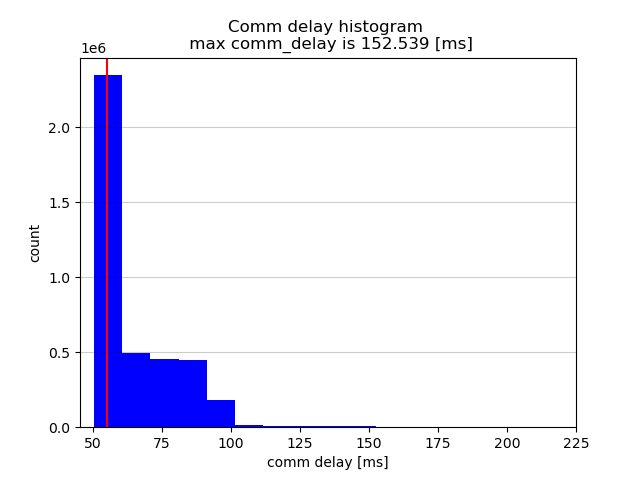
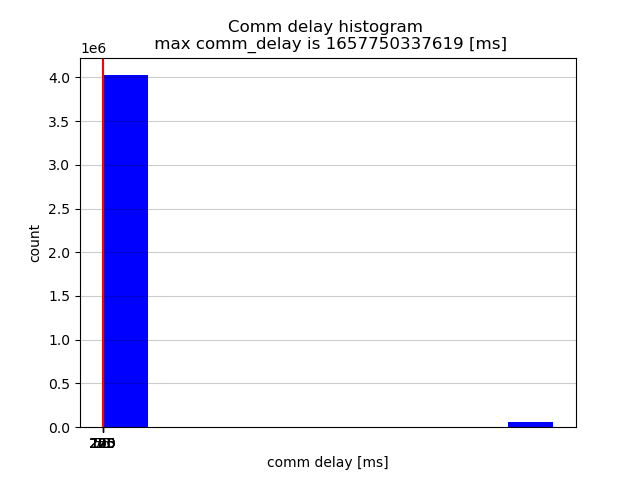
for simulation

diff --git a/mader/src/mader.cpp b/mader/src/mader.cpp
@@ -401,23 +401,20 @@ std::vector<Eigen::Vector3d> Mader::vertexesOfInterval(mt::PieceWisePol& pwp, do
 {
   std::vector<Eigen::Vector3d> points;
 
-  // std::vector<double>::iterator low = std::lower_bound(pwp.times.begin(), pwp.times.end(), t_start);
-  // std::vector<double>::iterator up = std::upper_bound(pwp.times.begin(), pwp.times.end(), t_end);
+  std::vector<double>::iterator low = std::lower_bound(pwp.times.begin(), pwp.times.end(), t_start);
+  std::vector<double>::iterator up = std::upper_bound(pwp.times.begin(), pwp.times.end(), t_end);
 
-  // // Example: times=[1 2 3 4 5 6 7]
-  // // t_start=1.5;
-  // // t_end=5.5
-  // // then low points to "2" (low - pwp.times.begin() is 1)
-  // // and up points to "6" (up - pwp.times.begin() is 5)
+  // Example: times=[1 2 3 4 5 6 7]
+  // t_start=1.5;
+  // t_end=5.5
+  // then low points to "2" (low - pwp.times.begin() is 1)
+  // and up points to "6" (up - pwp.times.begin() is 5)
 
-  // int index_first_interval = low - pwp.times.begin() - 1;  // index of the interval [1,2]
-  // int index_last_interval = up - pwp.times.begin() - 1;    // index of the interval [5,6]
+  int index_first_interval = low - pwp.times.begin() - 1;  // index of the interval [1,2]
+  int index_last_interval = up - pwp.times.begin() - 1; // index of the interval [5,6]
 
-  // mu::saturate(index_first_interval, 0, (int)(pwp.coeff_x.size() - 1));
-  // mu::saturate(index_last_interval, 0, (int)(pwp.coeff_x.size() - 1));
-
-  int index_first_interval = 0;
-  int index_last_interval = static_cast<int>(pwp.coeff_x.size() - 1);
+  mu::saturate(index_first_interval, 0, (int)(pwp.coeff_x.size() - 1));
+  mu::saturate(index_last_interval, 0, (int)(pwp.coeff_x.size() - 1));
 
   Eigen::Matrix<double, 3, 4> P;
   Eigen::Matrix<double, 3, 4> V;
@@ -1488,7 +1485,7 @@ bool Mader::replan_with_delaycheck(mt::Edges& edges_obstacles_out, std::vector<m
   if (result == false)
   {
     int states_last_replan =
-        ceil(replanCB_t.ElapsedMs() / (par_.dc * 1000) + par_.delay_check / par_.dc);  // Number of states that
+        ceil(replanCB_t.ElapsedMs() / (par_.dc * 1000) + par_.delay_check * par_.comm_delay_param / par_.dc);  // Number of states that
                                                                                        // would have been needed for
                                                                                        // the last replan
     deltaT_ = std::max(par_.factor_alpha * states_last_replan, 1.0);
@@ -1583,7 +1580,7 @@ bool Mader::replan_with_delaycheck(mt::Edges& edges_obstacles_out, std::vector<m
   mtx_offsets.lock();
 
   int states_last_replan =
-      ceil(replanCB_t.ElapsedMs() / (par_.dc * 1000) + par_.delay_check / par_.dc);  // Number of states that
+      ceil(replanCB_t.ElapsedMs() / (par_.dc * 1000) + par_.delay_check * par_.comm_delay_param / par_.dc);  // Number of states that
                                                                                      // would have been needed for
                                                                                      // the last replan
   deltaT_ = std::max(par_.factor_alpha * states_last_replan, 1.0);

diff --git a/mader/scripts/run_many_sims_multi_agent.py b/mader/scripts/run_many_sims_multi_agent.py
@@ -41,9 +41,9 @@ if __name__ == '__main__':
     num_of_sims=60
     num_of_agents=10
     if is_oldmader:
-        dc_list = [0, 170, 78, 63, 55, 50_1] #dc_list[0] will be used for old mader (which doesn't need delay check) so enter some value (default 0)
+        dc_list = [0, 170, 78, 63, 55, 51] #dc_list[0] will be used for old mader (which doesn't need delay check) so enter some value (default 0)
     else:
-        dc_list = [170, 78, 63, 55, 50_1] #dc_list[0] will be used for old mader (which doesn't need delay check) so enter some value (default 0)
+        dc_list = [170, 78, 63, 55, 51] #dc_list[0] will be used for old mader (which doesn't need delay check) so enter some value (default 0)
         # dc_list = [170] #dc_list[0] will be used for old mader (which doesn't need delay check) so enter some value (default 0)
 
     # folder initialization
@@ -109,7 +109,7 @@ if __name__ == '__main__':
             commands.append("sleep 3.0 && roslaunch mader goal_reached.launch")
 
             #publishing the goal should be the last command
-            commands.append("sleep 10.0 && roslaunch mader many_drones.launch action:=send_goal")
+            commands.append("sleep 13.0 && roslaunch mader many_drones.launch action:=send_goal")
             commands.append("sleep 10.0 && tmux detach")
 
             # print("len(commands)= " , len(commands))
@@ -140,7 +140,7 @@ if __name__ == '__main__':
             tic = time.perf_counter()
             toc = time.perf_counter()
 
-            while (toc - tic < 50 and not is_goal_reached):
+            while (toc - tic < 30 and not is_goal_reached):
                 toc = time.perf_counter()
                 if(checkGoalReached(num_of_agents)):
                     print('all the agents reached the goal')

diff --git a/mader/src/mader_ros.cpp b/mader/src/mader_ros.cpp
@@ -36,6 +36,8 @@ MaderRos::MaderRos(ros::NodeHandle nh1, ros::NodeHandle nh2, ros::NodeHandle nh3
   delay_check_ = par_.delay_check;
   mu::safeGetParam(nh1_, "simulated_comm_delay", simulated_comm_delay_);
 
+  mu::safeGetParam(nh1_, "comm_delay_param", par_.comm_delay_param);
+
   mu::safeGetParam(nh1_, "use_ff", par_.use_ff);
   mu::safeGetParam(nh1_, "visual", par_.visual);
   mu::safeGetParam(nh1_, "color_type", par_.color_type);
@@ -495,14 +497,15 @@ void MaderRos::replanCB(const ros::TimerEvent& e)
 {
   if (ros::ok() && published_initial_position_ == true)
   {
-    if (!is_replanCB_called_){
-      // to avoid initial path search congestions add some random sleep here
-      std::random_device rd;
-      std::default_random_engine eng(rd());
-      std::uniform_real_distribution<float> distr(0, 1); // sleep between 0 and 1 sec
-      ros::Duration(distr(eng)).sleep();
-      is_replanCB_called_ = true;
-    }
+    // if (!is_replanCB_called_){
+    //   // to avoid initial path search congestions add some random sleep here
+    //   std::random_device rd;
+    //   std::default_random_engine eng(rd());
+    //   std::uniform_real_distribution<float> distr(0, 1); // sleep between 0 and 1 sec
+    //   ros::Duration(distr(eng)).sleep();
+    //   std::cout << "sleep " << distr(eng) << std::endl;
+    //   is_replanCB_called_ = true;
+    // }
 
     // initialization
     mt::Edges edges_obstacles;

diff --git a/mader/other/sim/comm_delay_histogram_percentile.py b/mader/other/sim/comm_delay_histogram_percentile.py
@@ -29,10 +29,10 @@ if __name__ == '__main__':
 
     cd = "50" # [ms] communication delay
 
-    dc_list = [0, 170, 78, 63, 55, 50_1] #dc_list[0] will be used for old mader (which doesn't need delay check) so enter some value (default 0)
+    dc_list = [0, 170, 78, 63, 55, 51] #dc_list[0] will be used for old mader (which doesn't need delay check) so enter some value (default 0)
 
     # you wanna get histogram or know the value at q-th percentile
-    is_histogram = False
+    is_histogram = True
     # q-th percentile
     q = 75
 
@@ -76,6 +76,8 @@ if __name__ == '__main__':
                     comm_delay.append(log.comm_delay[j])
 
         # print percentile
+
+        comm_delay = [x for x in a if x <= 1]
         comm_delay_arr = numpy.array(comm_delay)
 
         if is_histogram:
@@ -90,7 +92,7 @@ if __name__ == '__main__':
             plt.axvline(x=dc/1000, color="red")
             ax.set_xticks(np.arange(0.05,0.250,0.025))
             ax.set_xticklabels(np.arange(50,250,25))
-            plt.rcParams["font.family"] = "Times New Roman"
+            # plt.rcParams["font.family"] = "Times New Roman"
             plt.grid(axis='y', color='black', alpha=0.2)
             plt.title('Comm delay histogram \n max comm_delay is '+str(round(max_comm_delay*1000))+' [ms]')
             plt.xlabel("comm delay [ms]")

diff --git a/mader/other/sim/collision_check.py b/mader/other/sim/collision_check.py
@@ -28,12 +28,13 @@ if __name__ == '__main__':
     # Dont use ~ like this
     cd = "50" # [ms] communication delay
 
-    is_oldmader = True # change here 
+    is_oldmader = False # change here 
     
     if is_oldmader:
-        dc_list = [0, 170, 78, 63, 55, 50_1] #dc_list[0] will be used for old mader (which doesn't need delay check) so enter some value (default 0)
+        dc_list = [0, 170, 78, 63, 55, 51] #dc_list[0] will be used for old mader (which doesn't need delay check) so enter some value (default 0)
     else:
-        dc_list = [170, 78, 63, 55, 50_1] #dc_list[0] will be used for old mader (which doesn't need delay check) so enter some value (default 0)
+        # dc_list = [170, 78, 63, 55, 51] #dc_list[0] will be used for old mader (which doesn't need delay check) so enter some value (default 0)
+        dc_list = [51] #dc_list[0] will be used for old mader (which doesn't need delay check) so enter some value (default 0)
 
 
     for dc in dc_list:

diff --git a/mader/other/sim/completion_time.py b/mader/other/sim/completion_time.py
@@ -31,9 +31,9 @@ if __name__ == '__main__':
     is_oldmader = True # change here 
     
     if is_oldmader:
-        dc_list = [0, 170, 78, 63, 55, 50_1] #dc_list[0] will be used for old mader (which doesn't need delay check) so enter some value (default 0)
+        dc_list = [0, 170, 78, 63, 55, 51] #dc_list[0] will be used for old mader (which doesn't need delay check) so enter some value (default 0)
     else:
-        dc_list = [170, 78, 63, 55, 50_1] #dc_list[0] will be used for old mader (which doesn't need delay check) so enter some value (default 0)
+        dc_list = [170, 78, 63, 55, 51] #dc_list[0] will be used for old mader (which doesn't need delay check) so enter some value (default 0)
 
     # this gives you 2d array, row gives you each sims data in corresponding dc
     box_plot_list = [] 

diff --git a/mader/scripts/collision_detector.py b/mader/scripts/collision_detector.py
@@ -34,9 +34,9 @@ class CollisionDetector:
         self.tol = 0.00
 
         # bbox size
-        self.bbox_x = rospy.get_param('~bbox_x', 0.25) - self.tol #default value is 1.0 
-        self.bbox_y = rospy.get_param('~bbox_y', 0.25) - self.tol #default value is 1.0 
-        self.bbox_z = rospy.get_param('~bbox_z', 0.25) - self.tol #default value is 1.5
+        self.bbox_x = rospy.get_param('~bbox_x', 0.15) - self.tol #default value is 1.0 
+        self.bbox_y = rospy.get_param('~bbox_y', 0.15) - self.tol #default value is 1.0 
+        self.bbox_z = rospy.get_param('~bbox_z', 0.5) - self.tol #default value is 1.5
         self.num_of_agents = rospy.get_param('~num_of_agents')
 
         self.initialized = True

diff --git a/mader/scripts/launch_many_drones.py b/mader/scripts/launch_many_drones.py
@@ -57,7 +57,7 @@ if __name__ == '__main__':
     formation="circle"
     commands = []
     num_of_agents=10; 
-    radius=10;
+    radius=20;
 
 
     if(formation=="sphere"):

diff --git a/mader/include/mader_types.hpp b/mader/include/mader_types.hpp
@@ -566,6 +566,8 @@ struct parameters
 {
   double delay_check;
 
+  double comm_delay_param;
+
   bool use_ff;
   bool visual;
 
